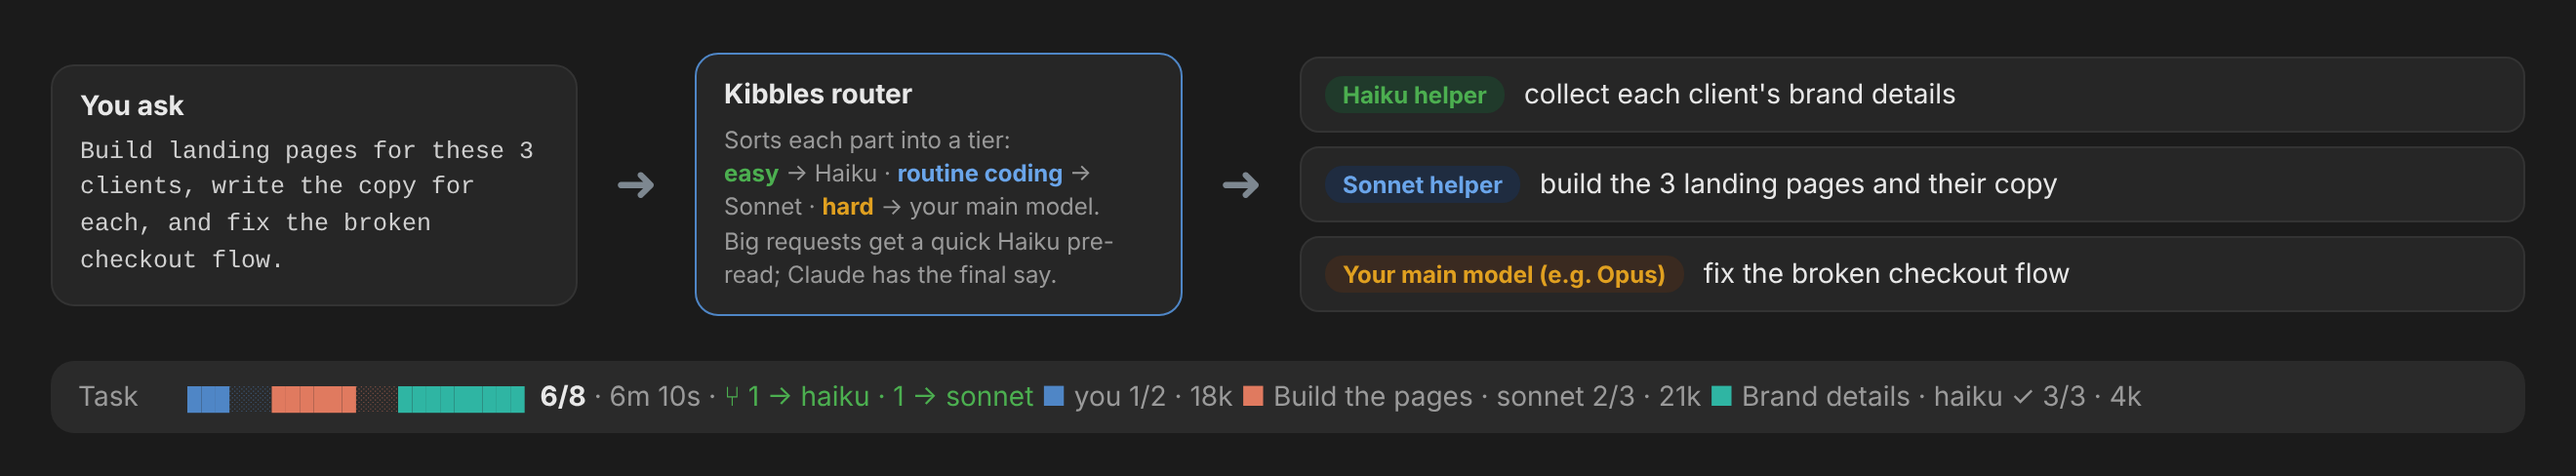
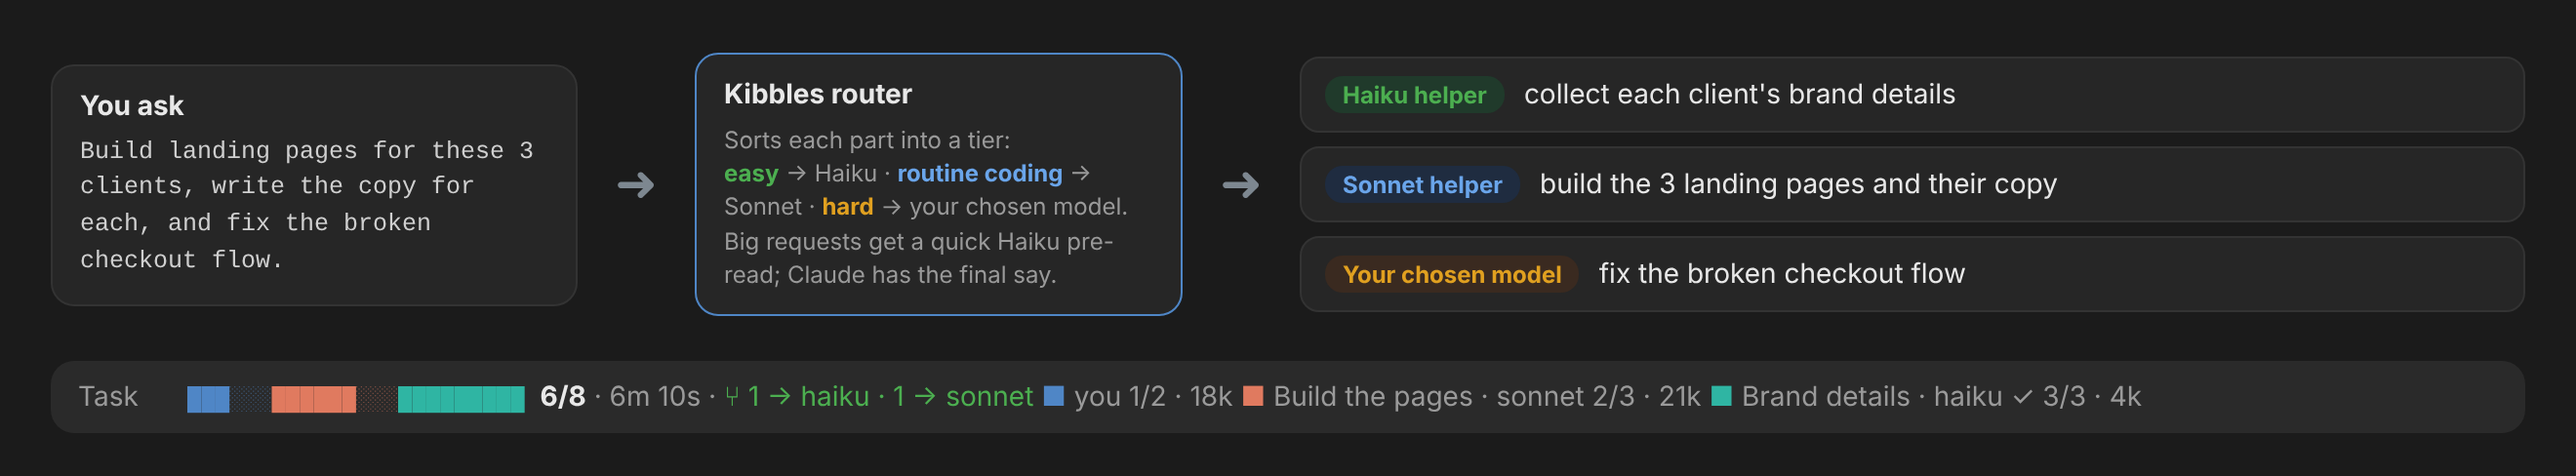
Router docs: call it 'your chosen model'
Claude-Session: https://claude.ai/code/session_01JtoWSS4hHwE8T4PegbGPHs

Changed region(s): [[0.528, 0.5533, 0.8076, 0.6148], [0.3727, 0.3996, 0.4348, 0.4611]]

diff --git a/README.md b/README.md
@@ -22,7 +22,7 @@
 
 - **A heads-up display:** a three-line band above the prompt with your weekly and 5-hour limits, task progress and timer, tokens and context, helpers in colour, and a heads-up when Claude is waiting on you.
 - **A token saver:** noisy tool output is trimmed before Claude reads it. A 900-test run goes from ~15,000 tokens to ~300, with the failure kept whole. Unchanged files aren't re-read, and replies stay short.
-- **A model router:** each part of a task goes to the cheapest model that can do it well: Haiku for easy work, Sonnet for routine coding, and your main model (often Opus) for the hard parts, so your limits stretch further.
+- **A model router:** each part of a task goes to the cheapest model that can do it well: Haiku for easy work, Sonnet for routine coding, and your chosen model (often Opus) for the hard parts, so your limits stretch further.
 
 There's nothing to set up or switch on. The band and the token saver run on your computer and never call a model. The router only makes a small Haiku call to plan big, multi-part requests.
 
@@ -161,7 +161,7 @@ Not every part of a task needs Claude's biggest model. The router sorts the work
 |---|---|---|
 | **Easy** | Searching or reading code, collecting facts, summarising, renaming, formatting, docs, boilerplate | **Haiku**: the smallest, cheapest model |
 | **Medium** | Routine coding from a clear spec: straightforward code, tests, pages, small features, conversions | **Sonnet**: a strong all-rounder, much lighter on limits than Opus |
-| **Hard** | Design, debugging, tricky changes, anything needing careful reasoning | **Your main model**: whatever your chat runs on, often Opus |
+| **Hard** | Design, debugging, tricky changes, anything needing careful reasoning | **Your chosen model**: the one you picked for the chat, often Opus |
 
 On Claude plans, smaller models use up your 5-hour and weekly limits far more slowly, so the same work stretches further.
 
@@ -269,8 +269,8 @@ There's nothing to set. If you ever want to change it, add a `"router"` section 
 | Setting | Default | What it does |
 |---|---|---|
 | `enabled` | `true` | The whole router: instruction, safety net and pre-read |
-| `tiers.easy` | `"haiku"` | The model easy work goes to (`null` keeps it on Claude's own model) |
-| `tiers.medium` | `"sonnet"` | The model routine coding goes to (`null` keeps it on Claude's own model) |
+| `tiers.easy` | `"haiku"` | The model easy work goes to (`null` keeps it on your chosen model) |
+| `tiers.medium` | `"sonnet"` | The model routine coding goes to (`null` keeps it on your chosen model) |
 | `maxPreReadsPerChat` | `20` | At most this many pre-reads in one chat |
 
 ## Where the numbers come from
